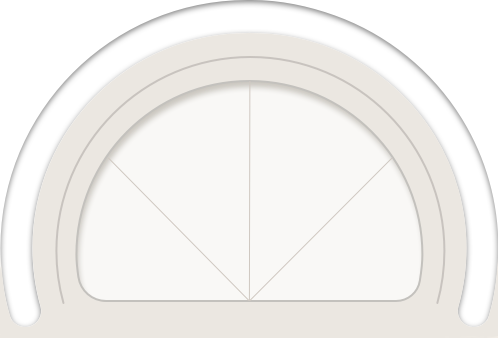
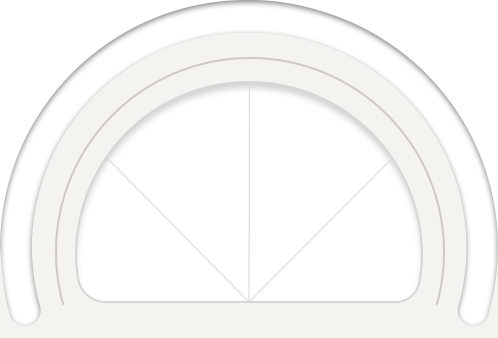
update ui

diff --git a/lib/utils/InstrumentWidget.dart b/lib/utils/InstrumentWidget.dart
@@ -1,5 +1,7 @@
 import 'package:app/utils/InstrumentItemWidget.dart';
 import 'package:app/utils/Utils.dart';
+import 'package:app/utils/i18n/index.dart';
+import 'package:polkawallet_sdk/utils/i18n.dart';
 import 'package:flutter/material.dart';
 import 'package:flutter_screenutil/flutter_screenutil.dart';
 import 'package:polkawallet_ui/components/SkaletonList.dart';
@@ -94,7 +96,8 @@ class _InstrumentWidgetState extends State<InstrumentWidget> {
                               fontWeight: FontWeight.w400,
                               color: Theme.of(context)
                                   .textSelectionTheme
-                                  .selectionColor)),
+                                  .selectionColor
+                                  .withAlpha(191))),
                       GestureDetector(
                         onTap: () {
                           widget.onSwitchHideBalance();
@@ -161,12 +164,15 @@ class _InstrumentWidgetState extends State<InstrumentWidget> {
                                           Color(0xFFB1ADA7),
                                         ])),
                                 child: Center(
-                                  child: Container(
-                                    margin: EdgeInsets.only(bottom: 5),
-                                    width: 22.w,
-                                    height: 15.w,
-                                    child: Image.asset(
-                                        'assets/images/icon_instrument_1.png'),
+                                  child: Text(
+                                    I18n.of(context).getDic(
+                                        i18n_full_dic_app, 'assets')['v3.tap'],
+                                    style: Theme.of(context)
+                                        .textTheme
+                                        .headline5
+                                        ?.copyWith(
+                                            color: Color(0xFF757371),
+                                            fontWeight: FontWeight.bold),
                                   ),
                                 ),
                               )),

diff --git a/lib/app.dart b/lib/app.dart
@@ -123,8 +123,8 @@ class _WalletAppState extends State<WalletApp> with WidgetsBindingObserver {
   ThemeData _getAppTheme(MaterialColor color, {Color secondaryColor}) {
     return ThemeData(
       // backgroundColor: Color(0xFFF0ECE6),
-      scaffoldBackgroundColor: Color(0xFFEAE7E2),
-      dividerColor: Color(0xFFBAB7B2),
+      scaffoldBackgroundColor: Color(0xFFF5F3F0),
+      dividerColor: Color(0xFFD4D4D4),
       cardColor: Color(0xFFF9F8F6),
       toggleableActiveColor: Color(0xFF768FE1),
       errorColor: Color(0xFFE46B41),
@@ -132,7 +132,7 @@ class _WalletAppState extends State<WalletApp> with WidgetsBindingObserver {
       textSelectionTheme:
           TextSelectionThemeData(selectionColor: Color(0xFF565554)),
       appBarTheme: AppBarTheme(
-          backgroundColor: Color(0xFFEAE7E2),
+          backgroundColor: Color(0xFFF5F3F0),
           elevation: 0,
           titleTextStyle: TextStyle(
               color: Color(0xFF565554),

diff --git a/lib/pages/assets/asset/assetPage.dart b/lib/pages/assets/asset/assetPage.dart
@@ -531,10 +531,10 @@ class BalanceCard extends StatelessWidget {
         boxShadow: [
           BoxShadow(
             // color: primaryColor.withAlpha(100),
-            color: Color(0x4D000000),
-            blurRadius: 5.0,
-            spreadRadius: 1.0,
-            offset: Offset(5.0, 5.0),
+            color: Color(0x40000000),
+            blurRadius: 3.0,
+            spreadRadius: 0.0,
+            offset: Offset(2.0, 2.0),
           )
         ],
       ),

diff --git a/lib/utils/BottomNavigationBar.dart b/lib/utils/BottomNavigationBar.dart
@@ -49,7 +49,7 @@ class _BottomBarScaffoldState extends State<BottomBarScaffold> {
       resizeToAvoidBottomInset: false,
       bottomNavigationBar: SimpleShadow(
         child: BottomAppBar(
-          color: Color(0xFFDAD6D0),
+          color: Color(0xFFE0DEDA),
           shape: CustomNotchedShape(context),
           child: SizedBox(height: 64, child: Row(children: children)),
         ),

diff --git a/lib/utils/i18n/zh/assets.dart b/lib/utils/i18n/zh/assets.dart
@@ -102,4 +102,5 @@ const Map<String, String> zhAssets = {
   'v3.changeNetwork': '切换网络',
   'v3.changeNetwork.ing': '正在切换至',
   'v3.my': '我的',
+  'v3.tap': '切换',
 };

diff --git a/lib/utils/i18n/en/assets.dart b/lib/utils/i18n/en/assets.dart
@@ -110,4 +110,5 @@ const Map<String, String> enAssets = {
   'v3.changeNetwork': 'Change Network',
   'v3.changeNetwork.ing': 'Changing to',
   'v3.my': 'My',
+  'v3.tap': 'TAP',
 };
